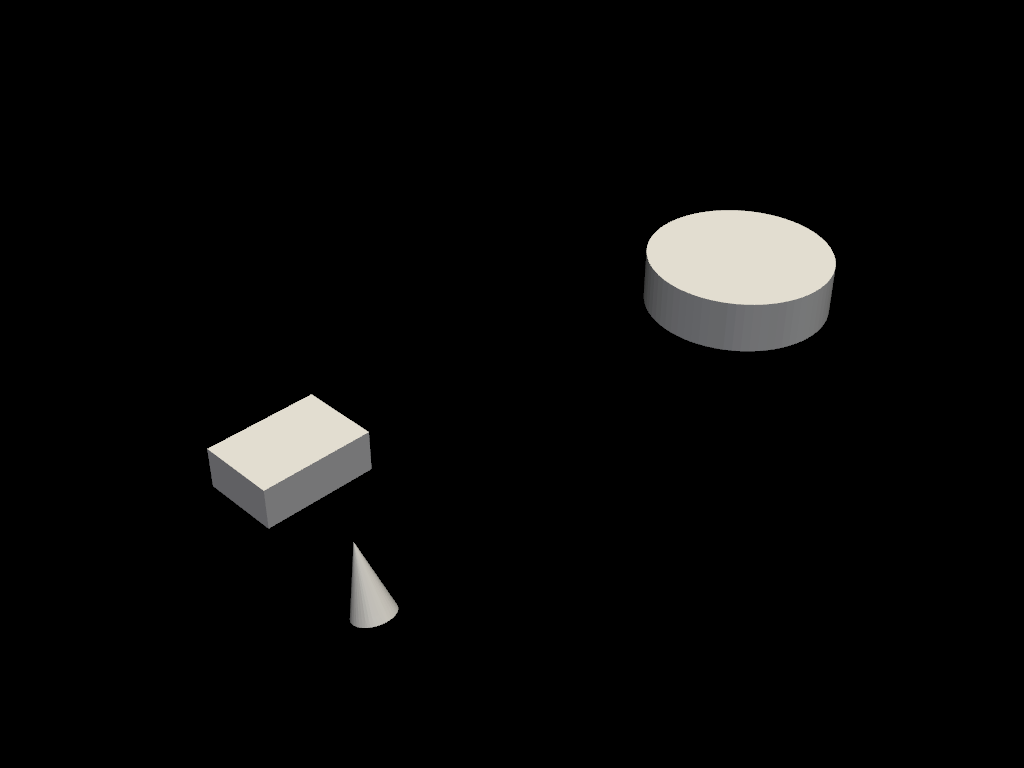
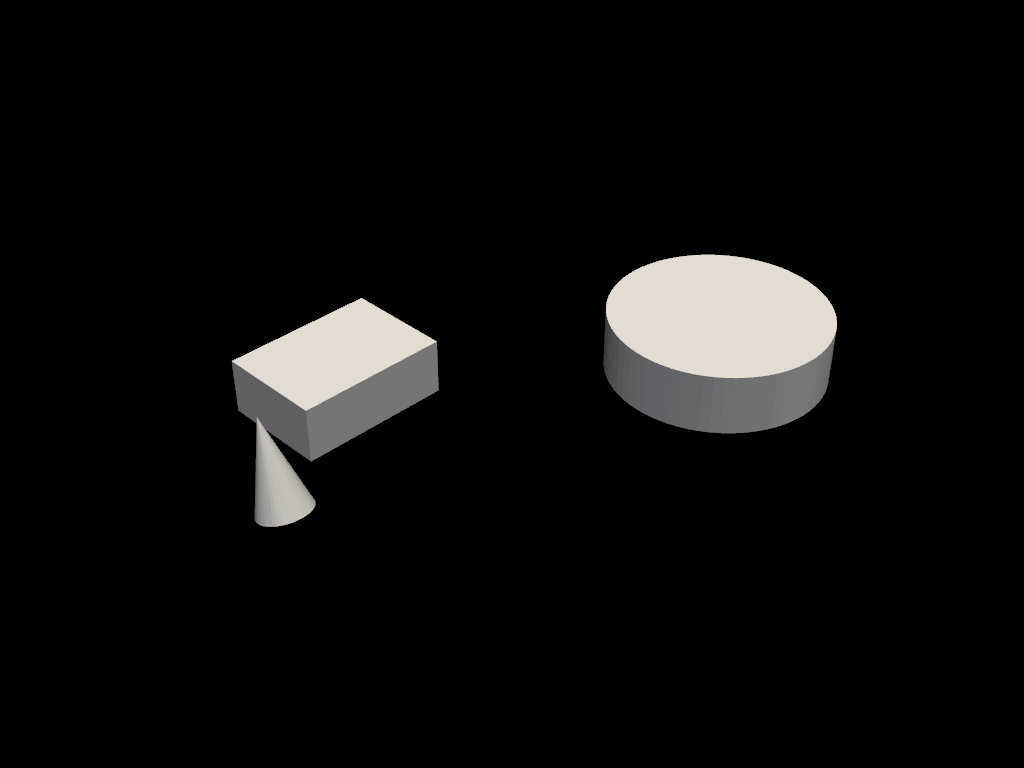
objects now rarely overlap with eachother, only on last resort

Changed region(s): [[0.5625, 0.25, 0.8438, 0.5625], [0.1875, 0.375, 0.4375, 0.6875], [0.3438, 0.7188, 0.4062, 0.8438]]

diff --git a/renderer.py b/renderer.py
@@ -65,10 +65,44 @@ def make_meshes(orig_dir, input_dir):
     os.chdir(orig_dir)
     return meshes
 
-def transform_meshes(meshes): # TODO: make it so that meshes cannot render inside eachother
-    transformed_meshes = [mesh.translate([random.randint(1,300), random.randint(1,300), random.randint(1,300)]) for mesh in meshes]
+def transform_meshes(meshes, translate_range=(0,200), min_sep=0.0, max_trials=500): # TODO: ADD MAX SEPARATION TO KEEP ITEMS MORE CLUSTERED TOGETHER
+    placed_bounds = []
+    transformed_meshes = []
+
+    for mesh in meshes:
+        orig_bounds = mesh.bounds
+        last_tx, last_ty, last_tz = 0.0, 0.0, 0.0
+        for _ in range(max_trials):
+            tx = random.uniform(*translate_range)
+            ty = random.uniform(*translate_range)
+            tz = random.uniform(*translate_range)
+            last_tx, last_ty, last_tz = tx, ty, tz
+
+            new_bounds = (
+                orig_bounds[0] + tx, orig_bounds[1] + tx,
+                orig_bounds[2] + ty, orig_bounds[3] + ty,
+                orig_bounds[4] + tz, orig_bounds[5] + tz
+            )   
+
+            # if new_bounds for mesh doesn't overlap other objects already placed, then add to new_bounds
+            if all(not overlap(new_bounds, b, min_sep) for b in placed_bounds):
+                placed_bounds.append(new_bounds)
+                moved = mesh.copy().translate([tx, ty, tz], inplace=False)
+                transformed_meshes.append(moved)
+                break
+        else: # if run out of trials for not overlapping, then accept overlap
+            moved = mesh.copy().translate([last_tx, last_ty, last_tz], inplace=False)
+            transformed_meshes.append(moved)
+    
     return transformed_meshes
 
+# return true if the objects overlap 
+def overlap(b1, b2, min_sep=0.0): # b = (xmin, xmax, ymin, ymax, zmin, zmax)
+    x_overlap = (b1[0] < b2[1] + min_sep) and (b1[1] + min_sep > b2[0])
+    y_overlap = (b1[2] < b2[3] + min_sep) and (b1[3] + min_sep > b2[2])
+    z_overlap = (b1[4] < b2[5] + min_sep) and (b1[5] + min_sep > b2[4])
+
+    return x_overlap and y_overlap and z_overlap
 
 def main(argc, argv):
     if argc != 2:
